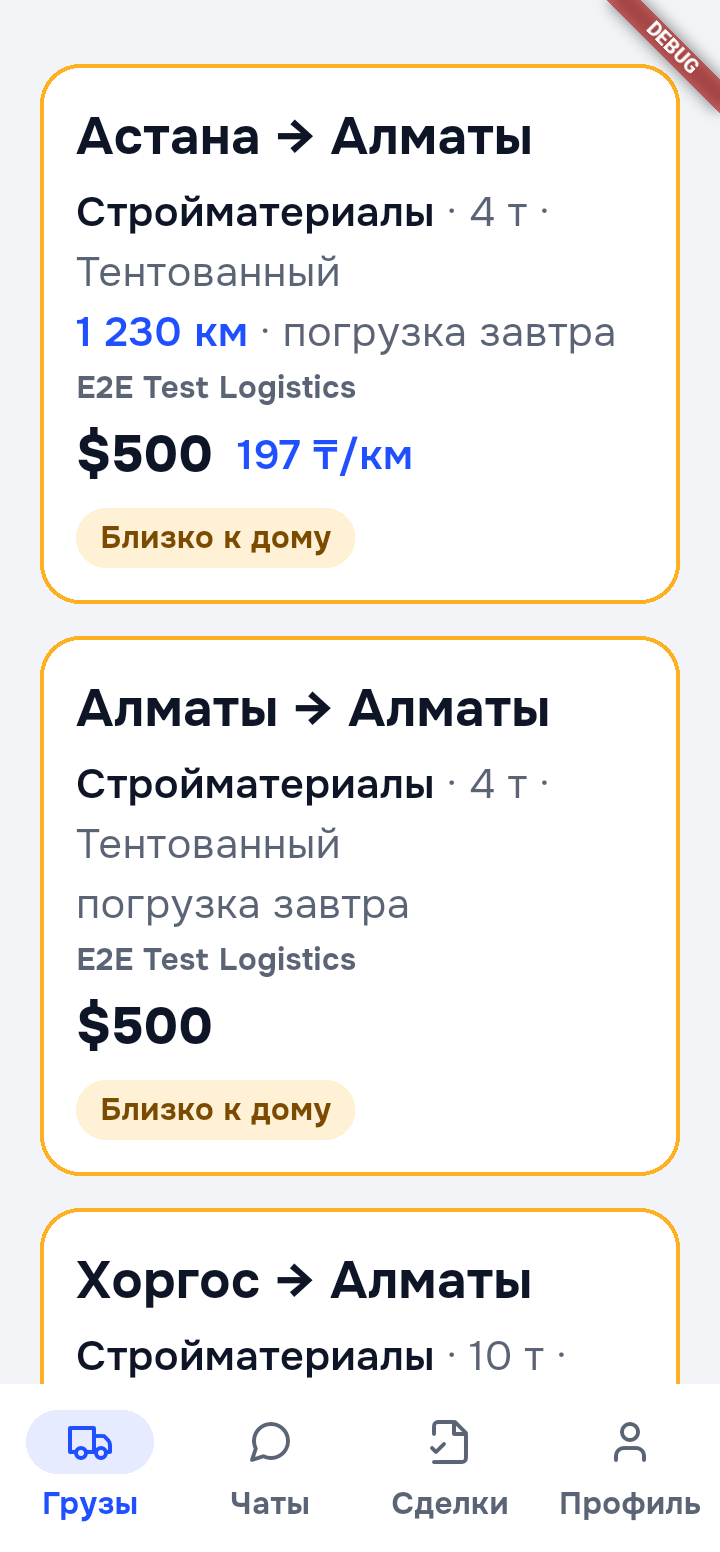
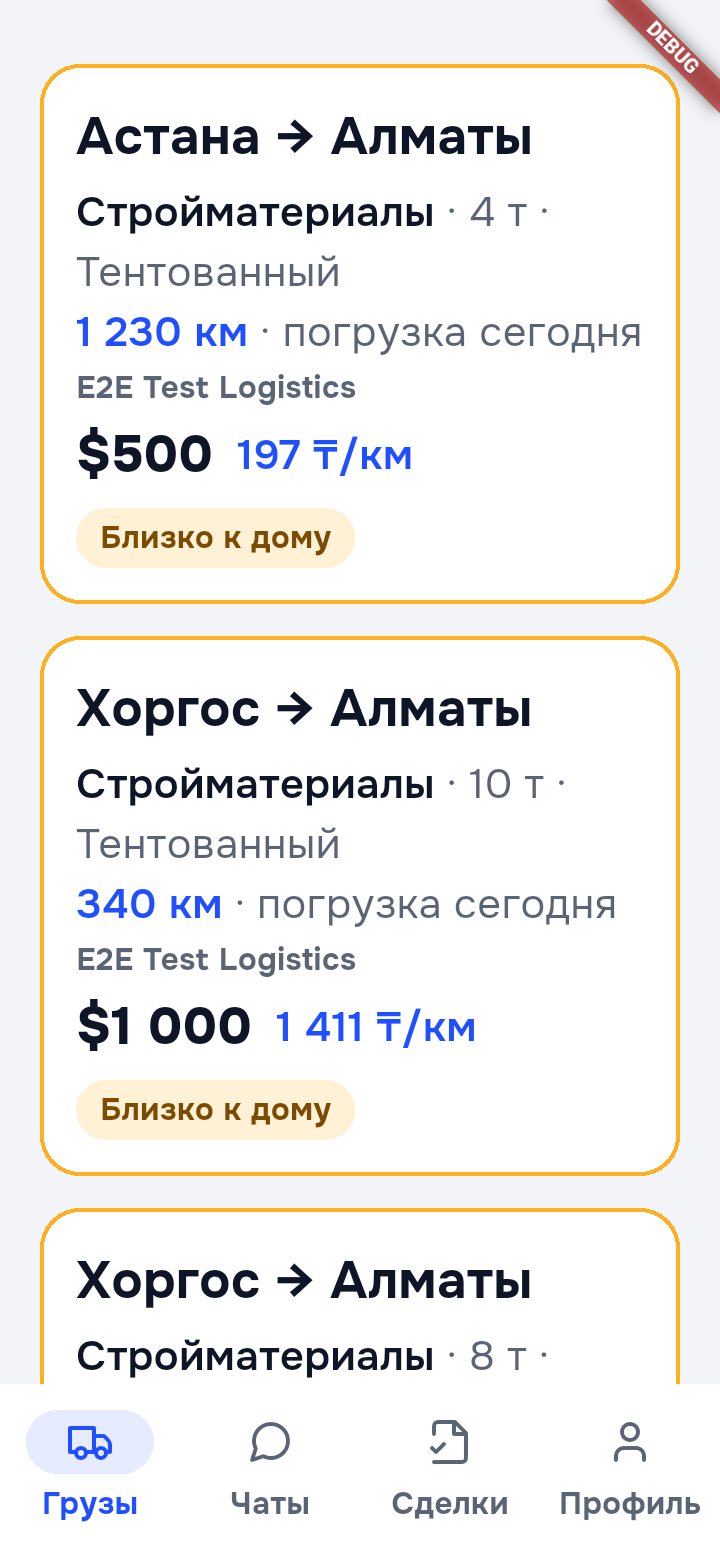
049: финальный прогон по умолчанию после подключения карты OSRM — зелёный на iPhone SE и Android 360 dp + Chrome; отчёт в evidence
Claude-Session: 3ae53252-e0c5-4653-bd09-d8041d5318c6

diff --git a/docs/tasks/049-review-fixes-044-048.md b/docs/tasks/049-review-fixes-044-048.md
@@ -1,6 +1,6 @@
 # 049 — Исправления по ревью 044 / 045 / 046 / 047 / 048
 
-Статус: ✅ **сделано** (2026-10-08), включая полную карту OSRM (п.11). `scripts/e2e.sh` зелёный: iPhone 17 + iPhone 16e (полный прогон без `-d`), iPhone SE (3rd gen, крупный шрифт) и Android-эмулятор 360×800 dp, font_scale 1.3 (п.13) — все сценарии, API-смоук 139 проверок, админка в Chrome 1280/390 — 14 passed. Построчно:
+Статус: ✅ **сделано** (2026-10-08), включая полную карту OSRM (п.11). После подключения карты (сид — координаты 57 городов) полный прогон по умолчанию 2026-10-09 зелёный на iPhone SE и Android 360 dp + Chrome (отчёт — `evidence/049-android-360/e2e-report.md`); по пути исправлены чат на SE с клавиатурой (карточка компактнее, не выше 40 % экрана) и устойчивость Android-прогона (таймауты, освобождение памяти, сброс minAppVersion после сценария). `scripts/e2e.sh` зелёный: iPhone 17 + iPhone 16e (полный прогон без `-d`), iPhone SE (3rd gen, крупный шрифт) и Android-эмулятор 360×800 dp, font_scale 1.3 (п.13) — все сценарии, API-смоук 139 проверок, админка в Chrome 1280/390 — 14 passed. Построчно:
 - п.1 ✅ `partialLoadsEnabled` (по умолчанию выкл., переключатель в админке → Настройки): одна активная сделка на машину для всех кузовов — 409 `VEHICLE_FULL` / `ONE_DEAL_PER_VEHICLE`, шторка «одна перевозка за раз»; «Можно догрузом», бейдж и подсказка скрыты; включён — суммирование только для VOLUME. Тесты обеих веток; e2e driver_deal перестроен под выключенный флаг (вторая сделка — шторка, после доставки первой — подтверждается).
 - п.2 ✅ `GETDEL` (тест гонки; Redis 7: 200 ссылок → 200 выдач). Safari на iPhone 17 (iOS 18.7) делает один запрос PDF за 30 с (второй — favicon) — одного использования хватает.
 - п.3 ✅ дубликат VIN/госномера у другого владельца → не AUTO, `VEHICLE_AUTO_VERIFY_SKIPPED` в журнал, в карточке распознавания «Дубликат у <водитель>».

diff --git a/evidence/049-android-360/e2e-report.md b/evidence/049-android-360/e2e-report.md
@@ -1,6 +1,6 @@
 # E2E-отчёт
 
-Запуск: 2026-10-08 19:11:09 · устройства: iPhone SE (3rd generation) android:lubao_e2e_360
+Запуск: 2026-10-09 00:42:58 · устройства: iPhone SE (3rd generation) android:lubao_e2e_360
 
 
 ## iPhone SE (3rd generation)
